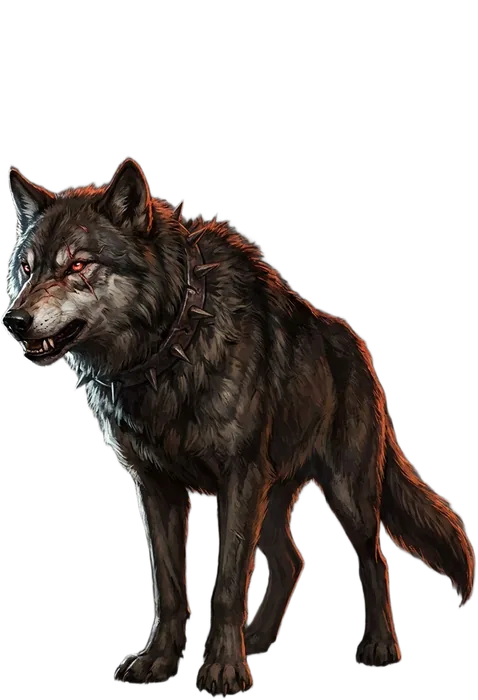
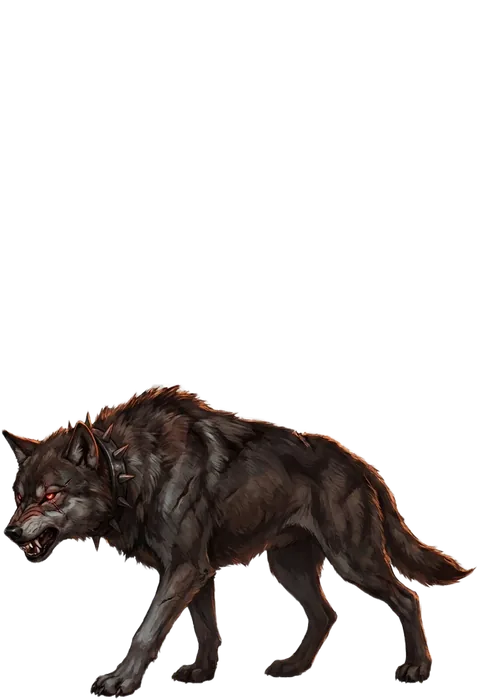
Медведь и вожак стаи: звери были наполовину обрезаны
У горного медведя не было задней части тела и задних лап, у вожака стаи —
то же самое сзади. Модель нарисовала их уходящими за кадр, а вырезание фона
это вскрыло. Автоматическая проверка по bbox это не ловила: обрезанный
зверь находится внутри холста, просто не дорисован.

Перегенерировал оба в двух вариантах, выбрал лучшие (полный профиль, все
четыре лапы, хвост целиком, камера отодвинута). Проверил весь набор из 11
зверей глазами по контактному листу — остальные девять целые.

Научился: после генерации смотреть на все фигуры контактным листом, а не
полагаться на bbox.

diff --git a/public/index.html b/public/index.html
@@ -2025,7 +2025,7 @@ function snowRun(){
    cx.fillStyle=g;cx.beginPath();cx.arc(f.x,f.y,f.r*3,0,6.283);cx.fill()}};
  requestAnimationFrame(t=>{SNL=t;tick(t)})}
 if(document.readyState==='loading')document.addEventListener('DOMContentLoaded',snowRun);else setTimeout(snowRun,0);
-const GVER='1.18.4';
+const GVER='1.18.5';
 let GC=[],GCA=[],gcUn=null,lastGc=0,GCMSG='';let GCL=(()=>{try{return localStorage.getItem('nf_gcl')||LANG}catch(e){return LANG}})();
 const gcF=()=>{GC=GCA.filter(m=>(m.lg||'ru')===GCL)};
 const gcLgBar=()=>`<span class="gclg">${['ru','en'].map(l=>`<button class="lnk${GCL===l?' on':''}" data-gl="${l}">${l.toUpperCase()}</button>`).join('')}</span>`;
@@ -2431,7 +2431,7 @@ async function doNewHero(){
  create(UID)}
 function heroFields(){return`<h3>Класс</h3>${Object.keys(CL).map(k=>`<button class="cls ${pick===k?'on':''}" data-c="${k}"><b>${CL[k].n}</b><br>${CL[k].d}</button>`).join('')}<h3 style="margin-top:10px">Аватар</h3><div style="text-align:center">${avatar(av,80)}</div>${avPicker(av)}`}
 function authView(){
- const st=DBS==='ok'?'<span style="color:var(--moss)">●</span> Сервер подключён: прогресс хранится в твоём аккаунте. <span style="opacity:.6">Версия 1.18.4</span>':DBS==='wait'?'Подключаюсь к базе данных…':'<span style="color:var(--blood)">●</span> База данных недоступна: войти в аккаунт нельзя.';
+ const st=DBS==='ok'?'<span style="color:var(--moss)">●</span> Сервер подключён: прогресс хранится в твоём аккаунте. <span style="opacity:.6">Версия 1.18.5</span>':DBS==='wait'?'Подключаюсь к базе данных…':'<span style="color:var(--blood)">●</span> База данных недоступна: войти в аккаунт нельзя.';
  const err=(INAPP&&(scr==='reg'||scr==='login')?'<p style="margin:0 0 10px;padding:8px 10px;border-radius:8px;background:rgba(199,154,60,.15);font-size:14px">Ты открыл игру внутри приложения соцсети. Чтобы вход и прогресс точно сохранились, нажми <b>⋯</b> вверху справа → <b>«Открыть во внешнем браузере»</b>.</p>':'')+(AM?`<p style="color:var(--blood);margin:6px 0 10px">${esc(AM)}</p>`:'');
  const tabs=scr==='newhero'||scr==='gnew'?'':scr==='forgot'?`<button class="lnk" data-sc="login" style="padding:0 0 10px">‹ Назад ко входу</button>`:scr==='login'?`<button class="lnk" data-sc="gnew" style="padding:0 0 10px">‹ Назад</button>`:scr==='reg'?(LEG&&LEG.guest?`<button class="lnk" data-a="guestgo" style="padding:0 0 10px">‹ Вернуться в игру</button>`:`<button class="lnk" data-sc="gnew" style="padding:0 0 10px">‹ Назад</button>`):`<div style="display:flex;gap:6px;margin-bottom:12px"><button class="b ${scr==='login'?'':'alt'}" data-sc="login" style="flex:1">Вход</button><button class="b ${scr==='reg'?'':'alt'}" data-sc="reg" style="flex:1">Регистрация</button></div>`;
  const inp=(id,ph,type,ac)=>`<input id="${id}" type="${type||'text'}" placeholder="${ph}" aria-label="${ph}" autocomplete="${ac}" autocapitalize="none" spellcheck="false" maxlength="${type==='password'?64:16}">`;

diff --git a/public/en/index.html b/public/en/index.html
@@ -2027,7 +2027,7 @@ function snowRun(){
    cx.fillStyle=g;cx.beginPath();cx.arc(f.x,f.y,f.r*3,0,6.283);cx.fill()}};
  requestAnimationFrame(t=>{SNL=t;tick(t)})}
 if(document.readyState==='loading')document.addEventListener('DOMContentLoaded',snowRun);else setTimeout(snowRun,0);
-const GVER='1.18.4';
+const GVER='1.18.5';
 let GC=[],GCA=[],gcUn=null,lastGc=0,GCMSG='';let GCL=(()=>{try{return localStorage.getItem('nf_gcl')||LANG}catch(e){return LANG}})();
 const gcF=()=>{GC=GCA.filter(m=>(m.lg||'ru')===GCL)};
 const gcLgBar=()=>`<span class="gclg">${['ru','en'].map(l=>`<button class="lnk${GCL===l?' on':''}" data-gl="${l}">${l.toUpperCase()}</button>`).join('')}</span>`;
@@ -2433,7 +2433,7 @@ async function doNewHero(){
  create(UID)}
 function heroFields(){return`<h3>Class</h3>${Object.keys(CL).map(k=>`<button class="cls ${pick===k?'on':''}" data-c="${k}"><b>${CL[k].n}</b><br>${CL[k].d}</button>`).join('')}<h3 style="margin-top:10px">Avatar</h3><div style="text-align:center">${avatar(av,80)}</div>${avPicker(av)}`}
 function authView(){
- const st=DBS==='ok'?'<span style="color:var(--moss)">●</span> Server connected: progress is stored in your account. <span style="opacity:.6">Version 1.18.4</span>':DBS==='wait'?'Connecting to the database…':'<span style="color:var(--blood)">●</span> The database is unavailable: you can\'t log in to an account.';
+ const st=DBS==='ok'?'<span style="color:var(--moss)">●</span> Server connected: progress is stored in your account. <span style="opacity:.6">Version 1.18.5</span>':DBS==='wait'?'Connecting to the database…':'<span style="color:var(--blood)">●</span> The database is unavailable: you can\'t log in to an account.';
  const err=(INAPP&&(scr==='reg'||scr==='login')?'<p style="margin:0 0 10px;padding:8px 10px;border-radius:8px;background:rgba(199,154,60,.15);font-size:14px">You opened the game inside a social media app. To make sure your login and progress are saved, tap <b>⋯</b> at the top right → <b>“Open in external browser”</b>.</p>':'')+(AM?`<p style="color:var(--blood);margin:6px 0 10px">${esc(AM)}</p>`:'');
  const tabs=scr==='newhero'||scr==='gnew'?'':scr==='forgot'?`<button class="lnk" data-sc="login" style="padding:0 0 10px">‹ Back to login</button>`:scr==='login'?`<button class="lnk" data-sc="gnew" style="padding:0 0 10px">‹ Back</button>`:scr==='reg'?(LEG&&LEG.guest?`<button class="lnk" data-a="guestgo" style="padding:0 0 10px">‹ Back to the game</button>`:`<button class="lnk" data-sc="gnew" style="padding:0 0 10px">‹ Back</button>`):`<div style="display:flex;gap:6px;margin-bottom:12px"><button class="b ${scr==='login'?'':'alt'}" data-sc="login" style="flex:1">Log in</button><button class="b ${scr==='reg'?'':'alt'}" data-sc="reg" style="flex:1">Sign up</button></div>`;
  const inp=(id,ph,type,ac)=>`<input id="${id}" type="${type||'text'}" placeholder="${ph}" aria-label="${ph}" autocomplete="${ac}" autocapitalize="none" spellcheck="false" maxlength="${type==='password'?64:16}">`;
